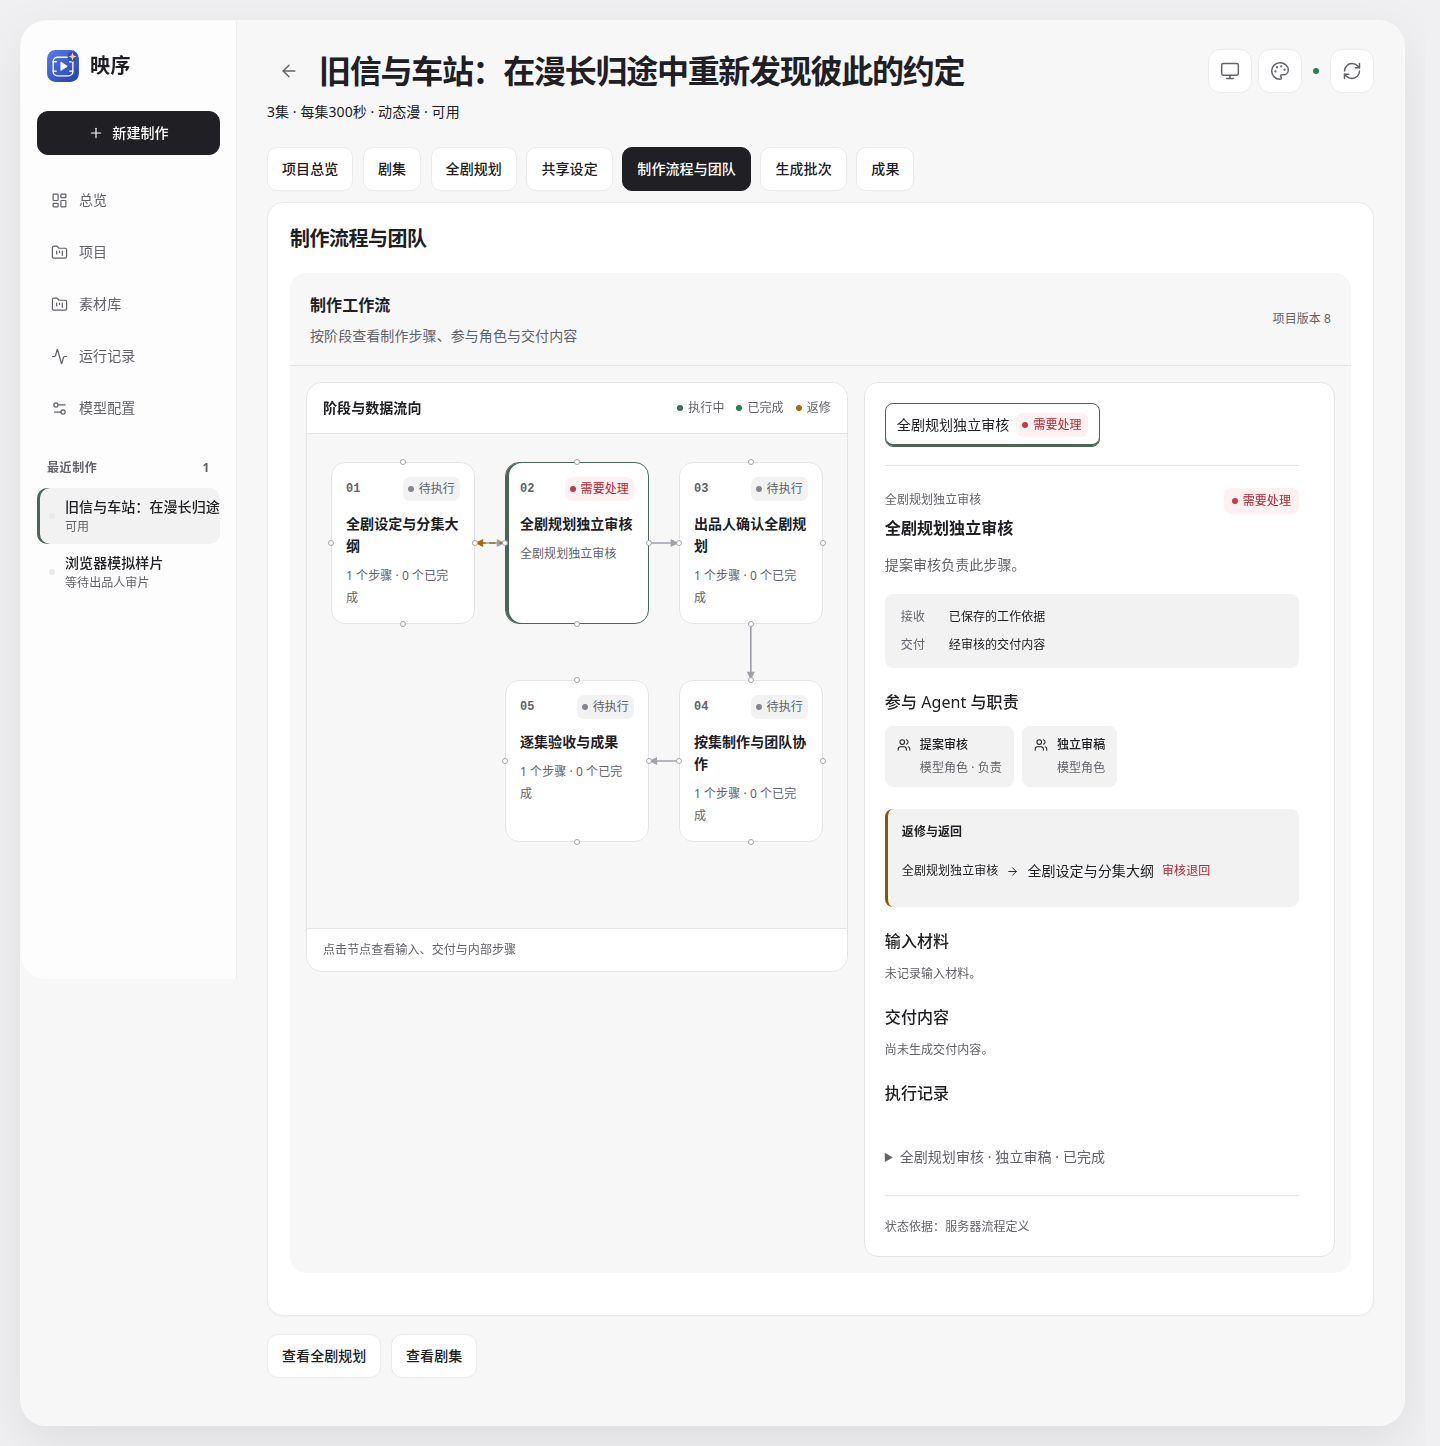
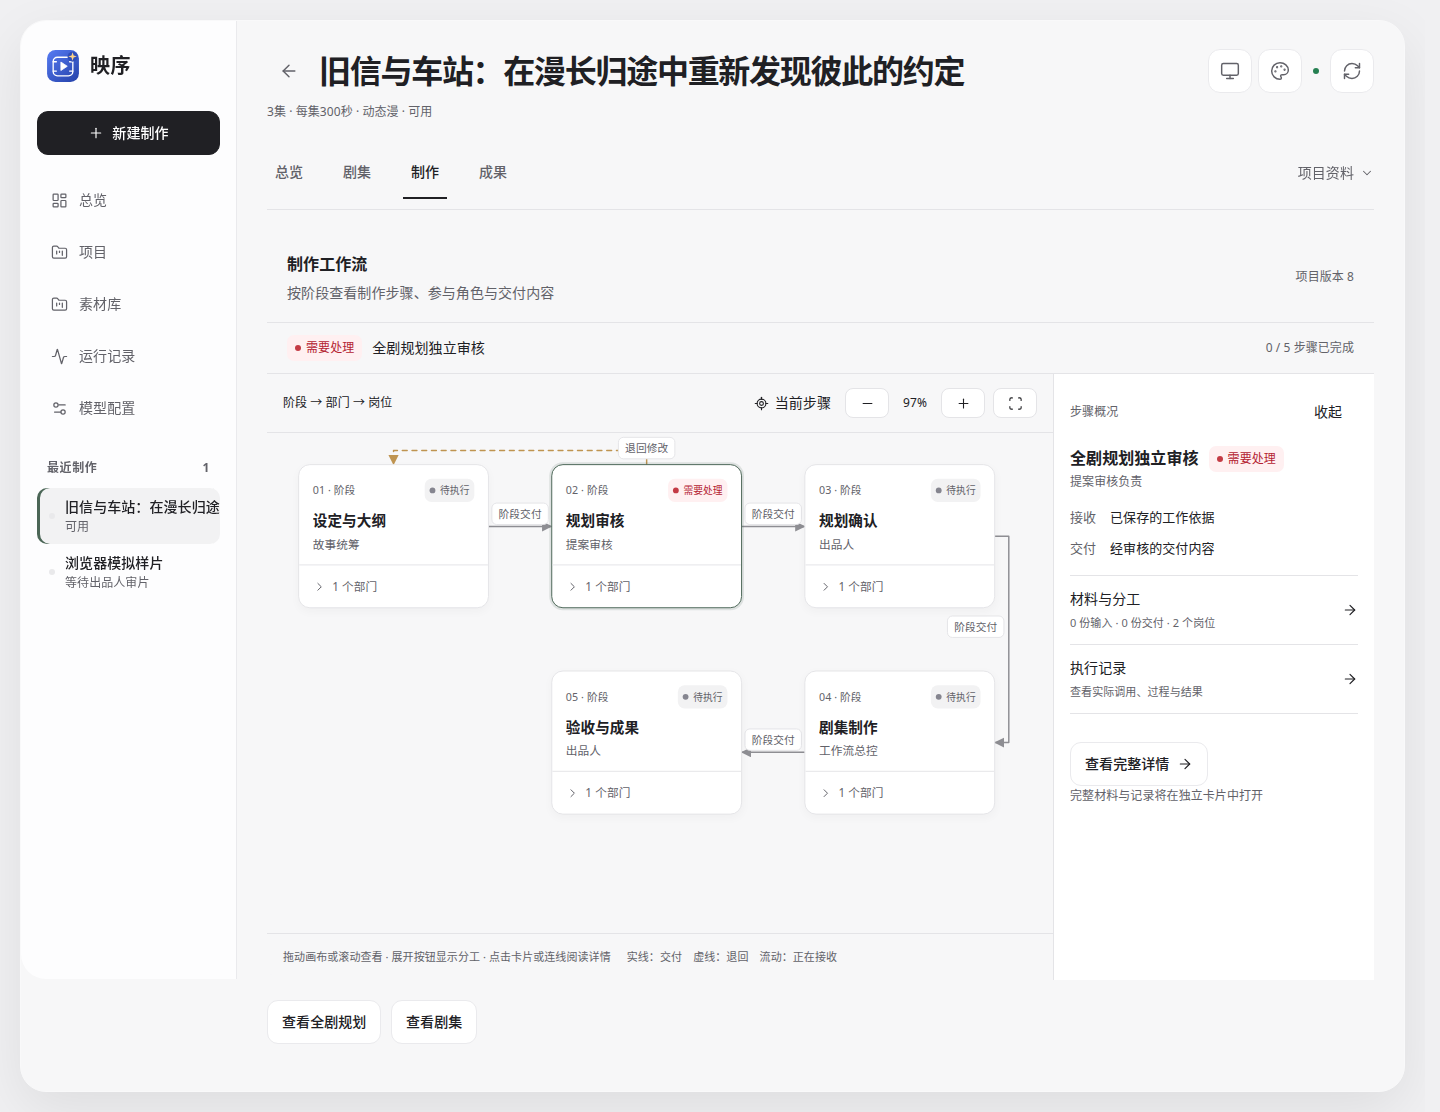
fix(ui): blend business highlights into system theme surfaces

diff --git a/ui/factory/src/styles/studio-design.css b/ui/factory/src/styles/studio-design.css
@@ -234,9 +234,10 @@ tbody tr:hover {
   min-width: 0;
   padding: 22px;
   border-radius: 16px;
-  background-color: var(--accent-feature);
-  background-image: var(--accent-gradient);
-  color: var(--on-accent-feature);
+  background: var(--surface);
+  border: 1px solid var(--line);
+  box-shadow: inset 3px 0 var(--accent);
+  color: var(--ink);
 }
 .focus-feature-head {
   display: flex;
@@ -462,9 +463,10 @@ tbody tr:hover {
   min-width: 0;
   padding: 18px 20px;
   border-radius: 12px;
-  background-color: var(--accent-feature);
-  background-image: var(--accent-gradient);
-  color: var(--on-accent-feature);
+  background: var(--surface);
+  border: 1px solid var(--line);
+  box-shadow: inset 3px 0 var(--accent);
+  color: var(--ink);
   overflow-wrap: anywhere;
 }
 .page-color-focus > span,

diff --git a/ui/factory/src/appearance-settings.css b/ui/factory/src/appearance-settings.css
@@ -134,7 +134,7 @@
   }
 }
 
-/* Tonal gradients stay inside feature cards; actions and reading stay neutral. */
+/* Business highlights share system surfaces; theme color stays on a narrow edge. */
 .appearance-preview-feature {
   display: flex;
   flex-direction: column;
@@ -142,9 +142,10 @@
   padding: 20px;
   margin-bottom: 16px;
   border-radius: var(--radius);
-  background-color: var(--accent-feature);
-  background-image: var(--accent-gradient);
-  color: var(--on-accent-feature);
+  background: var(--surface);
+  border: 1px solid var(--line);
+  box-shadow: inset 3px 0 var(--accent);
+  color: var(--ink);
 }
 .appearance-preview-feature strong {
   font-size: var(--text-section);

diff --git a/ui/factory/src/styles/accents.css b/ui/factory/src/styles/accents.css
@@ -1,4 +1,4 @@
-/* Accent roles: readable small marks, one tonal feature gradient, and focus.
+/* Accent roles: readable small marks and focus; gradients are only settings swatches.
    Primary actions stay neutral black/white, independent of the selected hue.
    Neutrals and semantic error / warning / success colors remain in tokens.css. */
 :root[data-accent] {

diff --git a/docs/UI_DESIGN.md b/docs/UI_DESIGN.md
@@ -1,12 +1,12 @@
 # 工作台 UI 设计与兼容约定
 
-工作台采用大面积白黑中性色、中等面积的可选主题色和少量必要语义色。该约定覆盖全局视图、项目页面、共享弹窗及明暗主题；整剧流程与自动返修规则见[整剧制作](DRAMA_PRODUCTION.md)。
+工作台采用大面积白黑中性色、小面积的可选主题色和少量必要语义色。该约定覆盖全局视图、项目页面、共享弹窗及明暗主题；整剧流程与自动返修规则见[整剧制作](DRAMA_PRODUCTION.md)。
 
 ## 视觉与交互
 
-- 白黑及中性灰用于页面、面板、大卡片、正文、主按钮及全局导航；主题色集中用于有实际内容的进展卡，并在项目内选中项、焦点和进度上少量呼应。失败/紧急用红，待处理问题用黄，通过用绿，限于有意义的标签、图标、细边和局部提示，不铺满大卡片。中性与语义颜色由`styles/tokens.css`定义，主题色由`styles/accents.css`覆盖，并配合文字标明状态；明暗主题正文和按钮满足AA对比度。供应商官方Logo与实际素材保持原色。
+- 白黑及中性灰用于页面、面板、大卡片、正文、主按钮及全局导航；主题色用于进展卡的窄边标记，并在项目内选中项、焦点和进度上少量呼应。失败/紧急用红，待处理问题用黄，通过用绿，限于有意义的标签、图标、细边和局部提示，不铺满大卡片。中性与语义颜色由`styles/tokens.css`定义，主题色由`styles/accents.css`覆盖，并配合文字标明状态；明暗主题正文和按钮满足AA对比度。供应商官方Logo与实际素材保持原色。
 - 品牌统一使用 README 已有的[电影画框与金色星芒 Logo](assets/logo.svg)，保留原图形与原色。`ui/factory/public/brand.svg`是该资产的完整副本，单测校验逐字一致；更新原资产时同步复制，侧栏`BrandMark`与浏览器图标均引用该副本。移除英文装饰副标题、侧栏重复底座和宣传页脚；流程阶段显示中文，保留影响操作的预算、审核问题、来源和版本提示。
-- 每页保留一个主标题和明确操作区，移除英文装饰标题与无功能头像。总览与表单使用清晰的中性色面板和渐变主题卡，避免整页染色与无信息叠卡；渐变限于承载实际重点的卡片内部。相同信息不在概览重复堆叠；详情通过分组或展开查看。
+- 每页保留一个主标题和明确操作区，移除英文装饰标题与无功能头像。总览、表单与数据摘要共用系统灰阶面板，以底色层级、字号与细边区分重点；业务卡片不使用彩色渐变或大片浅亮底色。相同信息不在概览重复堆叠；详情通过分组或展开查看。
 - 主题按钮以显示器、太阳、月亮表示当前偏好，按 system → light → dark → system 循环。悬停和聚焦说明当前与下一模式；原 `studio.theme` 值、系统变化跟随与跨标签同步保留。存储不可用时仍支持本次会话切换，初始化脚本在样式渲染前应用主题。
 - 正常同步状态为小型指示，异常保留明确文字；图标操作提供可访问名称，所有业务决定保留文字、确认与版本检查。项目状态入口常驻标题旁，长期问题按需打开详情抽屉；请求失败与临时反馈使用固定通知区域，不插入导航上方。表单保留就近错误和草稿，长错误可查看详情。
 
@@ -21,19 +21,19 @@
 | 画布、容器、内容三级 | 浅灰外底、浮动圆角工作区、白色内容卡 | 桌面圆角外框、轻边与低阴影，统一16px内容卡；手机使用全宽空间 |
 | 视觉权重分配 | 标题、主数据、辅助文字有明显尺寸差 | 当前项目标题优先，四项真实制作指标用大数字，事件和资源作为次级内容 |
 | 同组靠近、同类一致 | 模块对齐，卡片间距与内边距有规律 | 统一间距与控件圆角，任务与待办组成主区域，动态与资源置于其后；项目、模型与流程共用面板语言 |
-| 颜色面积与职责 | 黑白承担大面积信息，绿色卡片从浅色经过较浓的局部色彩，再柔和过渡到浅色，形成中等面积视觉重心，语义色占少量 | 阅读、导航和主按钮保持黑白；渐变进展卡使用所选主题色，选中与进度少量呼应；语义红黄绿只用于实际状态 |
+| 颜色面积与职责 | 黑白承担大面积信息，绿色卡片从浅色经过较浓的局部色彩，再柔和过渡到浅色，形成中等面积视觉重心，语义色占少量 | 阅读、导航、主按钮与进展卡使用系统中性色；所选主题色只用于窄边、选中和进度的小面积提示；语义红黄绿只用于实际状态 |
 | 颜色服务于信息 | 绿色卡片承载业务数据，图形服务所属业务 | 主题卡显示真实当前阶段和可用的制作进度，已有首帧仅作缩略图；GPU条来自真实回执，不生成虚构曲线或节省时长 |
 | 操作与内容相连 | 焦点模块有明确出口 | 总览优先选择待处理项目，其次执行中、未完成及最近项目；“打开当前项目”进入服务端指定的待处理阶段。无项目时提供“新建一部剧” |
 
 进展主题卡在桌面位于项目说明旁，手机排在说明和操作之后；使用完整可读的实际阶段与进度，不用装饰块代替信息。项目标题完整换行，按钮保持44px触达；可选首帧缩略图加载失败时回到图标。外观是界面层更新，不改变模型、角色、审核或生成配置。
 
-实现集中在`styles/studio-design.css`，通过中性token定义边框与阅读区，通过独立主题token定义渐变进展卡；不引入新的设计组件依赖。关键行为和六款配色保持原检查，增加真实焦点选择、空态创建、长中文标题、黑白主体与主题渐变分工、明暗及桌面/手机检查。[本轮界面与复现](images/studio-design/README.md)。
+实现集中在`styles/studio-design.css`，通过中性token定义边框与阅读区，通过独立主题token定义窄边标记；不引入新的设计组件依赖。关键行为和六款配色保持原检查，增加真实焦点选择、空态创建、长中文标题、灰阶主体与小面积主题标记分工、明暗及桌面/手机检查。[本轮界面与复现](images/studio-design/README.md)。
 
 ## 外观设置
 
-页面右上角“外观设置”图标打开`#view=settings`；手机先展开“页面工具”。外观设置独立提供显示模式（跟随系统、浅色、深色）与六款主题色。点选即时应用到进展主题卡、项目内选中项、焦点、进度和工作流选中态；主按钮与阅读区保持中性黑白；页面展示真实主题 token 的效果预览，无需保存按钮。设置页不依赖业务API可用性，也不写入模型、项目或服务器配置。
+页面右上角“外观设置”图标打开`#view=settings`；手机先展开“页面工具”。外观设置独立提供显示模式（跟随系统、浅色、深色）与六款主题色。点选即时应用到进展卡窄边、项目内选中项、焦点、进度和工作流选中态；主按钮与阅读区保持中性黑白；页面展示真实主题 token 的效果预览，无需保存按钮。设置页不依赖业务API可用性，也不写入模型、项目或服务器配置。
 
-| 主题 | 渐变方向（明暗共用） | 视觉方向 |
+| 主题 | 设置色卡方向（明暗共用） | 视觉方向 |
 | --- | --- | --- |
 | 深灰蓝 | 雾蓝高光 → 蓝灰 → 冷白 | 保留默认偏好，降低沉闷感 |
 | 雾银 | 银白 → 冷银灰 → 雾白 | 中性层次 |
@@ -44,9 +44,11 @@
 
 重新参考[Happy Hues 12 的灰紫与柔粉搭配](https://www.happyhues.co/palettes/12)、[Happy Hues 14 的黑白与浅青层次](https://www.happyhues.co/palettes/14)及[Radix 色阶的背景、边界与文字职责](https://www.radix-ui.com/colors/docs/palette-composition/understanding-the-scale)，结合用户参考图自行设计六组渐变，不直接套用其整页颜色或按钮颜色。
 
-`--accent-gradient`由高光`--accent-glow`、主色`--accent-feature`、浅色收尾`--accent-mist`组成，固定145度、0%/48%/100%三站；文字使用`--on-accent-feature`黑色，检查各站及站间插值的AA对比度。只有总览当前制作卡、共用页面重点区、原工作台当前阶段区、设置效果预览与设置色卡使用渐变。正文面板、表单、按钮、流程节点及状态标签保持黑白或原语义色，不铺渐变。
+业务重点卡（总览进展、共用 PageFocus、原工作台当前阶段及设置效果预览）统一使用 `--surface` 底色、`--ink` 正文、`--line` 边界，以 3px 内嵌主题细边提示重点。底色与文字随明暗模式切换，不随六款主题改成高亮彩色块；普通文字与背景保持 AA 对比度。
 
-设置中的六张色卡直接展示同一三站渐变，并放大为圆角矩形以便比较。`--accent`仍使用可读的深色/浅色小面积标记，`--primary`与`--on-primary`固定引用中性前景与面板，六套偏好不影响红黄绿语义状态或README原Logo。旧六个偏好ID保持兼容，已有选择对应新的同色系设计。
+渐变仅用于设置页的小尺寸色卡，帮助辨认六款偏好；`--accent-glow`、`--accent-feature`、`--accent-mist` 和原偏好 ID 保留兼容，业务卡片不消费这些渐变色。设置效果预览与真实业务页面使用同一灰阶底与主题细边。
+
+设置中的六张色卡在小尺寸圆角矩形中展示三站配色，渐变不延伸到业务卡片。`--accent`仍使用可读的深色/浅色小面积标记，`--primary`与`--on-primary`固定引用中性前景与面板，六套偏好不影响红黄绿语义状态或README原Logo。旧六个偏好ID保持兼容，已有选择对应新的同色系设计。
 
 显示模式沿用`studio.theme`，主题色单独保存在当前浏览器的`studio.accent`，以白名单校验；无效值回到深灰蓝。偏好不跨设备同步，同源标签页通过storage事件同步。存储不可用时本次会话仍可切换；由根Provider保留会话状态，页面切换不重置。`theme-init.js`从构建静态路径在首屏加载前应用两项偏好，避免依赖React挂载后才恢复颜色。
 
@@ -54,9 +56,9 @@
 
 ## 跨页面颜色覆盖
 
-同一颜色职责应用于全部视图及桌面/手机，编辑页不为凑颜色重复插入摘要。共用`PageFocus`提供中性容器与有实际信息的渐变主题区，摘要数据直接复用各页已有快照；阅读区、表单、主按钮维持黑白。
+同一颜色职责应用于全部视图及桌面/手机，编辑页不为凑颜色重复插入摘要。共用`PageFocus`提供中性容器与有实际信息的灰阶重点区，摘要数据直接复用各页已有快照；阅读区、表单、主按钮维持黑白。
 
-| 页面 | 渐变业务重点 | 阅读、编辑和选择规则 |
+| 页面 | 业务重点 | 阅读、编辑和选择规则 |
 | --- | --- | --- |
 | 总览 | 当前项目的实际阶段与可用进度 | 四项指标、任务、待办、动态和资源卡保持中性 |
 | 项目 | 当前搜索/分类的匹配总数；无总数字段时明确使用当前结果 | 项目表、搜索、筛选、分页保持中性，选中项细边/下划线 |
@@ -65,7 +67,7 @@
 | 模型配置 | 已配置的服务连接组数，不代表连接验证通过 | 服务连接与配置操作优先展示，摘要置于列表之后；制作分工、高级工具及编辑弹窗共用中性底；连接结果用真实回执的标签或细边 |
 | 整剧 | 总览展示已出片剧集数，等待验收不等于人工通过 | 规划、共享设定、剧集、批次、成果均保持中性；真实选中流程节点使用主题细边 |
 | 长剧集 | 总览的已完成制作单元数，不等于整集通过验收 | 场景/单元、长时间轴、流程、字幕、播放与验收区使用同一规则 |
-| 单元/历史短片工作台 | 原概览当前阶段区使用主题渐变 | 剧本、素材、镜头、审核/质检、团队、费用与交付页保持中性阅读与编辑，选中镜头/候选/版本用细边或下划线 |
+| 单元/历史短片工作台 | 原概览当前阶段区使用系统底色与主题细边 | 剧本、素材、镜头、审核/质检、团队、费用与交付页保持中性阅读与编辑，选中镜头/候选/版本用细边或下划线 |
 
 流程节点、团队任务、返修选项和镜头列表的选中态不再整卡染浅主题色；普通通知及运行中标签采用中性正文与底色，实际运行点保留主题色。等待人工处理显示黄色标记，失败显示红色标记，通过显示绿色标记；状态文字始终保留。供应商品牌与用户媒体维持原色。该规则覆盖异步加载、失败反馈、弹窗与可滚动窄屏，不修改制作/审核或模型连接配置。
 

diff --git a/docs/images/studio-design/README.md b/docs/images/studio-design/README.md
@@ -1,7 +1,7 @@
 # 参考设计落地证据
 
-默认深灰蓝`overview-{light,dark}-{1440,390}.png`及青柠绿`overview-jade-{light,dark}-{1440,390}.png`由`tests/browser/studio-design.spec.mjs`使用实际生产构建与隔离模拟API生成，展示黑白工作区与主按钮、渐变主题进展卡、大数字指标和分组卡片。主题卡承载真实阶段与已有进度值；`focus-jade-light-1440.png`为同一测试直接截取的当前制作区域。测试使用长中文项目名，手机将进展卡排在项目说明和操作之后，完整展示信息。
+默认深灰蓝`overview-{light,dark}-{1440,390}.png`及青柠绿`overview-jade-{light,dark}-{1440,390}.png`由`tests/browser/studio-design.spec.mjs`使用实际生产构建与隔离模拟API生成，展示黑白工作区与主按钮、系统灰阶进展卡与小面积主题细边、大数字指标和分组卡片。主题卡承载真实阶段与已有进度值；`focus-jade-light-1440.png`为同一测试直接截取的当前制作区域。测试使用长中文项目名，手机将进展卡排在项目说明和操作之后，完整展示信息。
 
-焦点项目、阶段及指标由测试API提供，不是生产统计，也不是模型质量或节省时间的证据。测试将最近项目与待处理项目分开，检查焦点确实指向需要处理的项目，并打开对应阶段；另覆盖空态创建、已有缩略图与404回退、六款主题、明暗及320/390/1440/1920宽度。浏览器检查黑白主体与主按钮不随主题染色，主题卡为局部三站渐变、文字对比度合格，标签保留红黄绿语义。原导航、总览待办分页与模型配置验证继续保留。
+焦点项目、阶段及指标由测试API提供，不是生产统计，也不是模型质量或节省时间的证据。测试将最近项目与待处理项目分开，检查焦点确实指向需要处理的项目，并打开对应阶段；另覆盖空态创建、已有缩略图与404回退、六款主题、明暗及320/390/1440/1920宽度。浏览器检查黑白主体与主按钮不随主题染色，业务卡底色随明暗模式变化、主题色仅作为窄边提示、文字对比度合格，标签保留红黄绿语义。原导航、总览待办分页与模型配置验证继续保留。
 
 复现：`npm run build`后运行`npm run test:browser -- tests/browser/studio-design.spec.mjs`。设计方法及业务映射见[界面设计](../../UI_DESIGN.md#参考图与设计模型)。用户提供的原参考图未复制入仓库；品牌沿用README已有资产。

diff --git a/docs/images/appearance/README.md b/docs/images/appearance/README.md
@@ -2,6 +2,6 @@
 
 `settings-light-1440.png`、`settings-dark-1440.png`为桌面设置页，`settings-light-390.png`、`settings-dark-390.png`为手机设置页。展示六款主题色、独立显示模式和杏桃效果预览。
 
-截图由`tests/browser/appearance-settings.spec.mjs`使用真实生产构建与隔离模拟API生成。浏览器实际点选全部六款配色，检查明暗主题、渐变主题卡变化、主操作及阅读区保持黑白、中性与红黄绿语义色稳定、跨页面保持、刷新恢复、跨标签同步、键盘焦点、320px布局、首屏脚本，以及API不可用时仍能切换。测试不调用模型或写入生产数据。
+截图由`tests/browser/appearance-settings.spec.mjs`使用真实生产构建与隔离模拟API生成。浏览器实际点选全部六款配色，检查明暗主题、灰阶业务卡底色稳定、主题细边变化、主操作及阅读区保持黑白、中性与红黄绿语义色稳定、跨页面保持、刷新恢复、跨标签同步、键盘焦点、320px布局、首屏脚本，以及API不可用时仍能切换。测试不调用模型或写入生产数据。
 
 复现：`npm run build`后执行`npm run test:browser -- tests/browser/appearance-settings.spec.mjs`。配色来源与持久化范围见[界面设计](../../UI_DESIGN.md#外观设置)。
